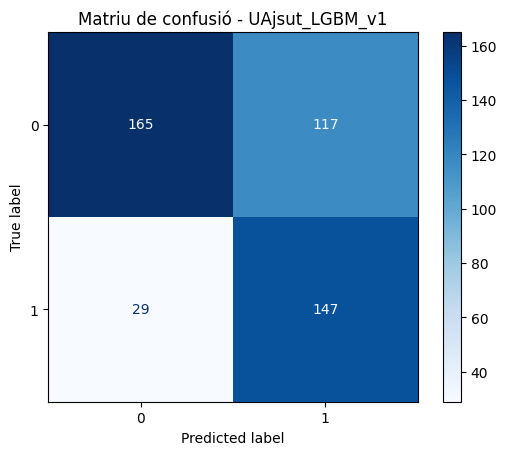
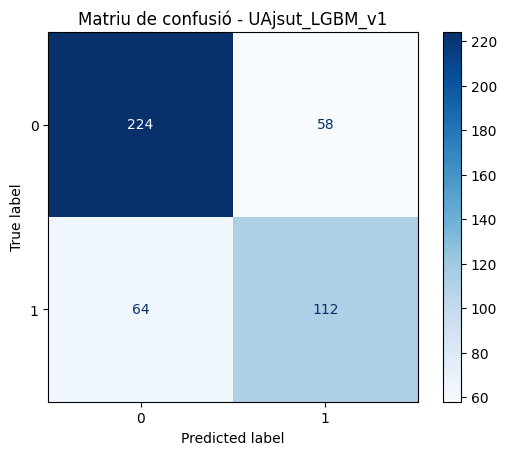
retocs en el umbral_v1

diff --git a/src/ai_health_assistant/02_training/umbral_v1.py b/src/ai_health_assistant/02_training/umbral_v1.py
@@ -25,7 +25,7 @@ y = df[TARGET]
 
 # ---------------------------------------------------------
 # Definim el model a utilitzar
-model_name = "LGBM"  # Opcions: MLP, SVM, RandomForest, GradientBoosting, BalancedRandomForest, LGBM
+model_name = "BalancedRandomForest" # Possibles models:"MLP", "SVM", "RandomForest", "GradientBoosting", "BalancedRandomForest", "LGBM"
 
 # Obtenim el classificador i els seus paràmetres des de la configuració centralitzada
 clf, param_grid = get_classifier_config(model_name)
@@ -34,8 +34,12 @@ clf, param_grid = get_classifier_config(model_name)
 # Definim el balancing method
 balancing_method = SMOTETomek(random_state=42)  # Combina oversampling i undersampling
 
-# Fl pipeline amb millors resultats:
-pipeline = ImbPipeline([
+# Provem els pipeline  que ens dongui millors resultats:
+pipeline_1 = ImbPipeline([
+    ("classifier", clf)
+])
+
+pipeline_2 = ImbPipeline([
     ("balancing", balancing_method),
     ("classifier", clf)
 ])
@@ -57,7 +61,7 @@ best_est, y_train_pred, train_report, y_val_pred, val_report, best_params, best_
     y_train, 
     X_val, 
     y_val,
-    pipeline,
+    pipeline_2,
     param_grid,
     n_iter=200,
     search_type='grid'
@@ -78,15 +82,11 @@ proba_val = clf_cal.predict_proba(X_val)[:,1]
 
 prec, rec, thr = precision_recall_curve(y_val, proba_val)
 
-# # Calucl respecte f1, el problema es que em carrego la classe 0
+# Calucl respecte f1, per maximitzar el F1 score
 f1 = 2*prec*rec/(prec+rec+1e-9)
 best_thr = thr[np.argmax(f1)]
 print(f"Umbral óptimo en validación: {best_thr:.3f}  ⇒  F1={f1.max():.4f}")
 
-# Calcul del umbral respecte f1_macro, dona resultats més estables
-# f1_macro = [f1_score(y_val, proba_val >= t, average="macro") for t in thr]
-# best_thr = thr[np.argmax(f1_macro)]
-# print(f"Umbral óptimo (macro-F1): {best_thr:.3f}")
 
 #---------------------------------------------------------
 # EVALUEM EL TEST original per evaluar el model
